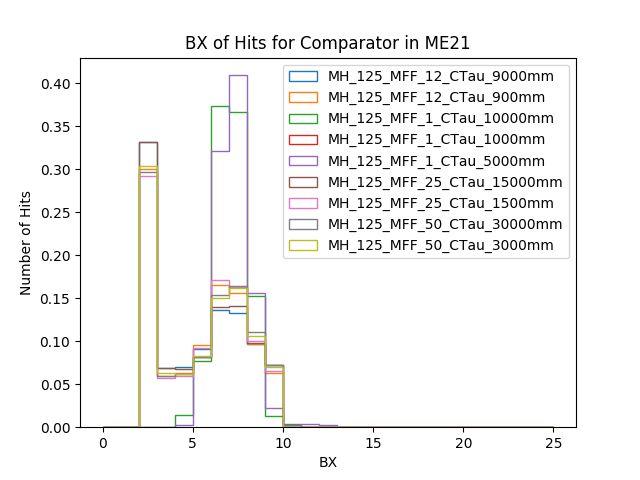
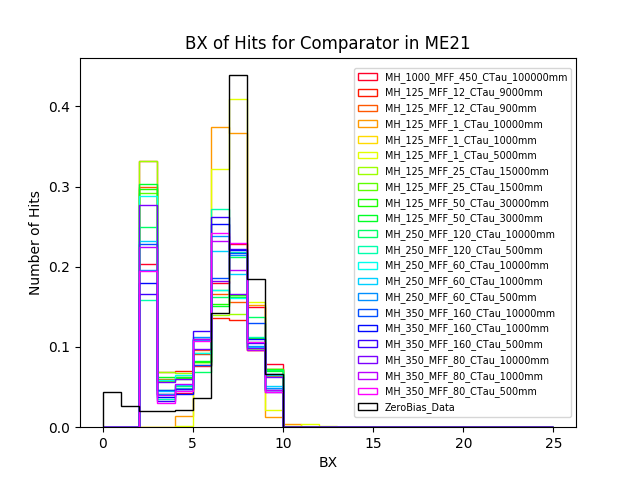
Added data timing plot maker and combined plotter

diff --git a/timing.py b/timing.py
@@ -3,10 +3,11 @@ import numpy as np
 import uproot
 import matplotlib.pyplot as plt
 from tqdm import tqdm
+import pickle
 
 in_dir = "/eos/uscms/store/user/nimenend/Eff_Rate/Final"
 samples = [
-#"MH_1000_MFF_450_CTau_100000mm",
+"MH_1000_MFF_450_CTau_100000mm",
 "MH_125_MFF_12_CTau_9000mm",
 "MH_125_MFF_12_CTau_900mm",
 "MH_125_MFF_1_CTau_10000mm",
@@ -16,18 +17,18 @@ samples = [
 "MH_125_MFF_25_CTau_1500mm",
 "MH_125_MFF_50_CTau_30000mm",
 "MH_125_MFF_50_CTau_3000mm",
-#"MH_250_MFF_120_CTau_10000mm",
-##"MH_250_MFF_120_CTau_1000mm",
-#"MH_250_MFF_120_CTau_500mm",
-#"MH_250_MFF_60_CTau_10000mm",
-#"MH_250_MFF_60_CTau_1000mm",
-#"MH_250_MFF_60_CTau_500mm",
-#"MH_350_MFF_160_CTau_10000mm",
-#"MH_350_MFF_160_CTau_1000mm",
-#"MH_350_MFF_160_CTau_500mm",
-#"MH_350_MFF_80_CTau_10000mm",
-#"MH_350_MFF_80_CTau_1000mm",
-#"MH_350_MFF_80_CTau_500mm",
+"MH_250_MFF_120_CTau_10000mm",
+#"MH_250_MFF_120_CTau_1000mm",
+"MH_250_MFF_120_CTau_500mm",
+"MH_250_MFF_60_CTau_10000mm",
+"MH_250_MFF_60_CTau_1000mm",
+"MH_250_MFF_60_CTau_500mm",
+"MH_350_MFF_160_CTau_10000mm",
+"MH_350_MFF_160_CTau_1000mm",
+"MH_350_MFF_160_CTau_500mm",
+"MH_350_MFF_80_CTau_10000mm",
+"MH_350_MFF_80_CTau_1000mm",
+"MH_350_MFF_80_CTau_500mm",
 ]
 
 vars_in = ["csc_comp_time","csc_comp_station","csc_comp_ring","csc_wire_time","csc_wire_station","csc_wire_ring","gen_llp_in_acceptance"]
@@ -35,6 +36,10 @@ sectors = [11,12,13,21,22,31,32,41,42]
 #sectors = [41,42]
 nCham = {"ME11":72,"ME12":72,"ME13":72,"ME21":36,"ME22":72,"ME31":36,"ME32":72,"ME41":36,"ME42":72}
 
+file_comp = open("comp_bins.txt","w")
+file_comp.close()
+file_wire = open("wire_bins.txt","w")
+file_wire.close()
 #times_comp, times_wire = {}, {}
 for me in tqdm(sectors):
 	times_comp, times_wire = {}, {}
@@ -48,34 +53,52 @@ for me in tqdm(sectors):
 		sector_comp = data["csc_comp_station"]*10 + data["csc_comp_ring"]
 		sector_wire = data["csc_wire_station"]*10 + data["csc_wire_ring"]
 	
-		#acceptance = np.array(ak.sum(data["gen_llp_in_acceptance"], axis=-1)>=nllp1)
-		#print(data["gen_llp_in_acceptance"])
 		for ev in tqdm(range(len(data["csc_comp_time"])),leave=False):
-			#print(data["gen_llp_in_acceptance"][ev])
-			#print(np.count_nonzero(data["gen_llp_in_acceptance"][ev]))
 			if not (np.count_nonzero(data["gen_llp_in_acceptance"][ev])>=1): continue
 
 			times = (np.take(data["csc_comp_time"][ev],np.argwhere(sector_comp[ev]==me).flatten())).flatten().tolist()
 			times_comp[s]["ME%i"%(me)].extend(times)
 			times = (np.take(data["csc_wire_time"][ev],np.argwhere(sector_wire[ev]==me).flatten())).flatten().tolist()
 			times_wire[s]["ME%i"%(me)].extend(times)
-	
+
+	file_comp = open("comp_bins.txt","a")
+	file_comp.write("\n")
+	file_comp.write("ME%i"%(me))	
 	for s in samples:
 		weights = np.ones(len(times_comp[s]["ME%i"%(me)]))*(1/nCham["ME%i"%(me)])
-		plt.hist(times_comp[s]["ME%i"%(me)],bins=25,range=[0,25],weights=weights,density=True,histtype='step',label=s)
+		times_comp[s]["weights"] = weights
+		(n,bins,patches) = plt.hist(times_comp[s]["ME%i"%(me)],bins=25,range=[0,25],weights=weights,density=False,histtype='step',label=s)
+		with open('Plots/pickle/%s_ME%i_comp.p'%(s,me),'wb') as handle:
+			pickle.dump(times_comp,handle)
+		file_comp.write("%s, "%(s))
+		for x in n:
+			file_comp.write("%.5f, "%(x))
+		file_comp.write("\n")
 	plt.xlabel("BX")
 	plt.ylabel("Number of Hits")
 	plt.title("BX of Hits for Comparator in ME%i"%(me))
-	plt.legend(loc='best')
+	#plt.legend(loc='best')
 	plt.savefig("Plots/BX_comp_ME%i.png"%(me))
 	plt.clf()
+	file_comp.close()
 
+	file_wire = open("wire_bins.txt","a")
+	file_wire.write("\n")
+	file_wire.write("ME%i"%(me))
 	for s in samples:
 		weights = np.ones(len(times_wire[s]["ME%i"%(me)]))*(1/nCham["ME%i"%(me)])
-		plt.hist(times_wire[s]["ME%i"%(me)],bins=25,range=[0,25],weights=weights,density=True,histtype='step',label=s)
+		times_wire[s]["weights"] = weights
+		(n,bins,patches) = plt.hist(times_wire[s]["ME%i"%(me)],bins=25,range=[0,25],weights=weights,density=False,histtype='step',label=s)
+		with open('Plots/pickle/%s_ME%i_wire.p'%(s,me),'wb') as handle:
+			pickle.dump(times_wire,handle)
+		file_wire.write("%s, "%(s))
+		for x in n:
+			file_wire.write("%.5f, "%(x))
+		file_wire.write("\n")
 	plt.xlabel("BX")
 	plt.ylabel("Number of Hits")
 	plt.title("BX of Hits for Wire in ME%i"%(me))
-	plt.legend(loc='best')
+	#plt.legend(loc='best')
 	plt.savefig("Plots/BX_wire_ME%i.png"%(me))
 	plt.clf()
+	file_wire.close()

diff --git a/timing_data.py b/timing_data.py
@@ -1,0 +1,90 @@
+from __future__ import division
+import numpy as np
+#import uproot4
+from ROOT import TFile, TTree
+import matplotlib.pyplot as plt
+from tqdm import tqdm
+import pickle
+
+in_dir = "/eos/uscms/store/user/nimenend/Eff_Rate/Final"
+samples = [
+#"MH_1000_MFF_450_CTau_100000mm",
+#"MH_125_MFF_12_CTau_9000mm",
+#"MH_125_MFF_12_CTau_900mm",
+#"MH_125_MFF_1_CTau_10000mm",
+#"MH_125_MFF_1_CTau_1000mm",        
+#"MH_125_MFF_1_CTau_5000mm",
+#"MH_125_MFF_25_CTau_15000mm",
+#"MH_125_MFF_25_CTau_1500mm",
+#"MH_125_MFF_50_CTau_30000mm",
+#"MH_125_MFF_50_CTau_3000mm",
+#"MH_250_MFF_120_CTau_10000mm",
+##"MH_250_MFF_120_CTau_1000mm",
+#"MH_250_MFF_120_CTau_500mm",
+#"MH_250_MFF_60_CTau_10000mm",
+#"MH_250_MFF_60_CTau_1000mm",
+#"MH_250_MFF_60_CTau_500mm",
+#"MH_350_MFF_160_CTau_10000mm",
+#"MH_350_MFF_160_CTau_1000mm",
+#"MH_350_MFF_160_CTau_500mm",
+#"MH_350_MFF_80_CTau_10000mm",
+#"MH_350_MFF_80_CTau_1000mm",
+#"MH_350_MFF_80_CTau_500mm",
+"ZeroBias_Data",
+]
+
+vars_in = ["csc_comp_time","csc_comp_station","csc_comp_ring","csc_wire_time","csc_wire_station","csc_wire_ring"]
+sectors = [11,12,13,21,22,31,32,41,42]
+#sectors = [41,42]
+nCham = {"ME11":72,"ME12":72,"ME13":72,"ME21":36,"ME22":72,"ME31":36,"ME32":72,"ME41":36,"ME42":72}
+
+for me in tqdm(sectors):
+	times_comp, times_wire = {}, {}
+	for s in tqdm(samples,leave=False):
+		times_comp[s] = {'ME11':[],'ME12':[],'ME13':[],'ME21':[],'ME22':[],'ME31':[],'ME32':[],'ME41':[],'ME42':[]}
+		times_wire[s] = {'ME11':[],'ME12':[],'ME13':[],'ME21':[],'ME22':[],'ME31':[],'ME32':[],'ME41':[],'ME42':[]}
+		File = TFile("%s/%s.root"%(in_dir,s))
+		t = File.Get("MuonNtuplizer/FlatTree")
+		nEntries = t.GetEntries()
+	
+		for ev in tqdm(range(10000),leave=False):
+			t.GetEntry(ev)
+
+			sector_comp, sector_wire = [], []
+			for i in range(len(t.csc_comp_station)):
+				sector_comp = (t.csc_comp_station[i]*10 + t.csc_comp_ring[i])
+				if sector_comp==me:
+					times_comp[s]["ME%i"%(me)].append(t.csc_comp_time[i])
+			for i in range(len(t.csc_wire_station)):
+				sector_wire = (t.csc_wire_station[i]*10 + t.csc_wire_ring[i])
+				if sector_wire==me:
+					times_wire[s]["ME%i"%(me)].append(t.csc_wire_time[i])
+
+	for s in samples:
+		weights = np.ones(len(times_comp[s]["ME%i"%(me)]))*(1/nCham["ME%i"%(me)])
+		times_comp[s]["weights"] = weights
+		(n,bins,patches) = plt.hist(times_comp[s]["ME%i"%(me)],bins=25,range=[0,25],weights=weights,density=True,histtype='step',label=s)
+		with open ('Plots/pickle/%s_ME%i_comp.p'%(s,me),'wb') as handle:
+			pickle.dump(times_comp,handle)
+	plt.xlabel("BX")
+	plt.ylabel("Number of Hits")
+	plt.title("BX of Hits for Comparator in ME%i"%(me))
+	plt.legend(loc='best')
+	plt.savefig("Plots/BX_comp_data_ME%i.png"%(me))
+	plt.clf()
+
+	file_wire = open("wire_bins.txt","a")
+	file_wire.write("\n")
+	file_wire.write("ME%i"%(me))
+	for s in samples:
+		weights = np.ones(len(times_wire[s]["ME%i"%(me)]))*(1/nCham["ME%i"%(me)])
+		times_wire[s]["weights"] = weights
+		(n,bins,patches) = plt.hist(times_wire[s]["ME%i"%(me)],bins=25,range=[0,25],weights=weights,density=True,histtype='step',label=s)
+		with open ('Plots/pickle/%s_ME%i_wire.p'%(s,me),'wb') as handle:
+			pickle.dump(times_wire,handle)
+	plt.xlabel("BX")
+	plt.ylabel("Number of Hits")
+	plt.title("BX of Hits for Wire in ME%i"%(me))
+	plt.legend(loc='best')
+	plt.savefig("Plots/BX_wire_data_ME%i.png"%(me))
+	plt.clf()

diff --git a/timing_plot.py b/timing_plot.py
@@ -1,0 +1,78 @@
+from __future__ import division
+import numpy as np
+import matplotlib.pyplot as plt
+import matplotlib.cm as mplcm
+import matplotlib.colors as colors
+from tqdm import tqdm
+import pickle
+
+
+in_dir = "/eos/uscms/store/user/nimenend/Eff_Rate/Final"
+samples = [
+"MH_1000_MFF_450_CTau_100000mm",
+"MH_125_MFF_12_CTau_9000mm",
+"MH_125_MFF_12_CTau_900mm",
+"MH_125_MFF_1_CTau_10000mm",
+"MH_125_MFF_1_CTau_1000mm",        
+"MH_125_MFF_1_CTau_5000mm",
+"MH_125_MFF_25_CTau_15000mm",
+"MH_125_MFF_25_CTau_1500mm",
+"MH_125_MFF_50_CTau_30000mm",
+"MH_125_MFF_50_CTau_3000mm",
+"MH_250_MFF_120_CTau_10000mm",
+#"MH_250_MFF_120_CTau_1000mm",
+"MH_250_MFF_120_CTau_500mm",
+"MH_250_MFF_60_CTau_10000mm",
+"MH_250_MFF_60_CTau_1000mm",
+"MH_250_MFF_60_CTau_500mm",
+"MH_350_MFF_160_CTau_10000mm",
+"MH_350_MFF_160_CTau_1000mm",
+"MH_350_MFF_160_CTau_500mm",
+"MH_350_MFF_80_CTau_10000mm",
+"MH_350_MFF_80_CTau_1000mm",
+"MH_350_MFF_80_CTau_500mm",
+"ZeroBias_Data",
+]
+
+NUM_COLORS = len(samples)
+sectors = [11,12,13,21,22,31,32,41,42]
+#sectors = [42]
+
+for me in tqdm(sectors):
+
+	cm = plt.get_cmap('gist_rainbow')
+	cNorm  = colors.Normalize(vmin=0, vmax=NUM_COLORS-1)
+	scalarMap = mplcm.ScalarMappable(norm=cNorm, cmap=cm)	
+	fig = plt.figure()
+	ax = fig.add_subplot(111)
+	ax.set_prop_cycle(color=[scalarMap.to_rgba(i) for i in range(NUM_COLORS)])
+	for s in tqdm(samples,leave=False):
+		with open ('Plots/pickle/%s_ME%i_comp.p'%(s,me),'rb') as handle:
+			times_comp = pickle.load(handle)
+		if s == "ZeroBias_Data":
+			(n,bins,patches) = ax.hist(times_comp[s]["ME%i"%(me)],bins=25,range=[0,25],weights=times_comp[s]["weights"],density=True,histtype='step',label=s,color='black')
+		else:
+			(n,bins,patches) = ax.hist(times_comp[s]["ME%i"%(me)],bins=25,range=[0,25],weights=times_comp[s]["weights"],density=True,histtype='step',label=s)
+	plt.xlabel("BX")
+	plt.ylabel("Number of Hits")
+	plt.title("BX of Hits for Comparator in ME%i"%(me))
+	plt.legend(loc='center right',fontsize='x-small')
+	fig.savefig("Plots/BX_comp_ME%i.png"%(me))
+	fig.clf()
+
+	fig = plt.figure()
+        ax = fig.add_subplot(111)
+	ax.set_prop_cycle(color=[scalarMap.to_rgba(i) for i in range(NUM_COLORS)])
+	for s in tqdm(samples,leave=False):
+		with open ('Plots/pickle/%s_ME%i_wire.p'%(s,me),'rb') as handle:
+			times_wire = pickle.load(handle)
+		if s == "ZeroBias_Data":
+			(n,bins,patches) = ax.hist(times_wire[s]["ME%i"%(me)],bins=25,range=[0,25],weights=times_wire[s]["weights"],density=True,histtype='step',label=s,color='black')
+		else:
+			(n,bins,patches) = ax.hist(times_wire[s]["ME%i"%(me)],bins=25,range=[0,25],weights=times_wire[s]["weights"],density=True,histtype='step',label=s)
+	plt.xlabel("BX")
+	plt.ylabel("Number of Hits")
+	plt.title("BX of Hits for Wire in ME%i"%(me))
+	plt.legend(loc='center right',fontsize='x-small')
+	fig.savefig("Plots/BX_wire_ME%i.png"%(me))
+	fig.clf()

diff --git a/optimize_thresholds.py b/optimize_thresholds.py
@@ -1,0 +1,80 @@
+from __future__ import division
+
+from ROOT import TFile, TTree
+from tqdm import tqdm
+from collections import Counter
+import pickle
+
+in_dir = "/eos/uscms/store/user/nimenend/Eff_Rate/Final/"
+bkg_files = ["ZeroBias_Data"]
+sig_files = [
+"MH_1000_MFF_450_CTau_100000mm",
+"MH_125_MFF_12_CTau_9000mm",
+"MH_125_MFF_12_CTau_900mm",
+"MH_125_MFF_1_CTau_10000mm",
+"MH_125_MFF_1_CTau_1000mm",
+"MH_125_MFF_1_CTau_5000mm",
+"MH_125_MFF_25_CTau_15000mm",
+"MH_125_MFF_25_CTau_1500mm",
+"MH_125_MFF_50_CTau_30000mm",
+"MH_125_MFF_50_CTau_3000mm",
+"MH_250_MFF_120_CTau_10000mm",
+#"MH_250_MFF_120_CTau_1000mm",
+"MH_250_MFF_120_CTau_500mm",
+"MH_250_MFF_60_CTau_10000mm",
+"MH_250_MFF_60_CTau_1000mm",
+"MH_250_MFF_60_CTau_500mm",
+"MH_350_MFF_160_CTau_10000mm",
+"MH_350_MFF_160_CTau_1000mm",
+"MH_350_MFF_160_CTau_500mm",
+"MH_350_MFF_80_CTau_10000mm",
+"MH_350_MFF_80_CTau_1000mm",
+"MH_350_MFF_80_CTau_500mm",
+"ZeroBias_Data",
+]
+
+bx_target_comp, bx_target_wire = 7, 8
+MEs = [11, 12, 13, 21, 22, 31, 32, 41, 42]
+
+#maxes = {"comp": {11:[],12:[],13:[],21:[],22:[],31:[],32:[],41:[],42:[]}, "wire": {11:[],12:[],13:[],21:[],22:[],31:[],32:[],41:[],42:[]}}
+for s in tqdm(sig_files):
+	maxes = {"comp": {11:[],12:[],13:[],21:[],22:[],31:[],32:[],41:[],42:[]}, "wire": {11:[],12:[],13:[],21:[],22:[],31:[],32:[],41:[],42:[]}}
+	File = TFile("%s/%s.root"%(in_dir,s))
+	t = File.Get("MuonNtuplizer/FlatTree")
+	nEntries = t.GetEntries()
+
+	for ev in tqdm(range(nEntries),leave=False):
+		t.GetEntry(ev)
+	
+		chamber = {"comp": {11:[],12:[],13:[],21:[],22:[],31:[],32:[],41:[],42:[]}, "wire": {11:[],12:[],13:[],21:[],22:[],31:[],32:[],41:[],42:[]}}
+		for i in range(len(t.csc_comp_station)):
+			if t.csc_comp_time[i]!=bx_target_comp: continue
+
+			sector = (t.csc_comp_station[i]*10 + t.csc_comp_ring[i])
+			if sector not in MEs: continue
+			chamber["comp"][sector].append(t.csc_comp_region[i]*(t.csc_comp_station[i]*1000 + t.csc_comp_ring[i]*100 + t.csc_comp_chamber[i]))
+
+		for i in range(len(t.csc_wire_station)):
+			if t.csc_wire_time[i]!=bx_target_wire: continue
+
+			sector = (t.csc_wire_station[i]*10 + t.csc_wire_ring[i])
+			if sector not in MEs: continue
+			chamber["wire"][sector].append(t.csc_wire_region[i]*(t.csc_wire_station[i]*1000 + t.csc_wire_ring[i]*100 + t.csc_wire_chamber[i]))
+
+		for me in MEs:
+			counts = Counter(chamber["comp"][me])
+			if counts.most_common():
+				maxes["comp"][me].append(counts.most_common()[0][1])	
+			else:
+				maxes["comp"][me].append(0)
+			
+			counts = Counter(chamber["wire"][me])
+			if counts.most_common():
+				maxes["wire"][me].append(counts.most_common()[0][1])
+			else:
+				maxes["wire"][me].append(0)
+
+	with open('output/maxHits_%s.p'%(s), 'wb') as handle:
+		pickle.dump(maxes, handle, protocol=pickle.HIGHEST_PROTOCOL)
+
+		
